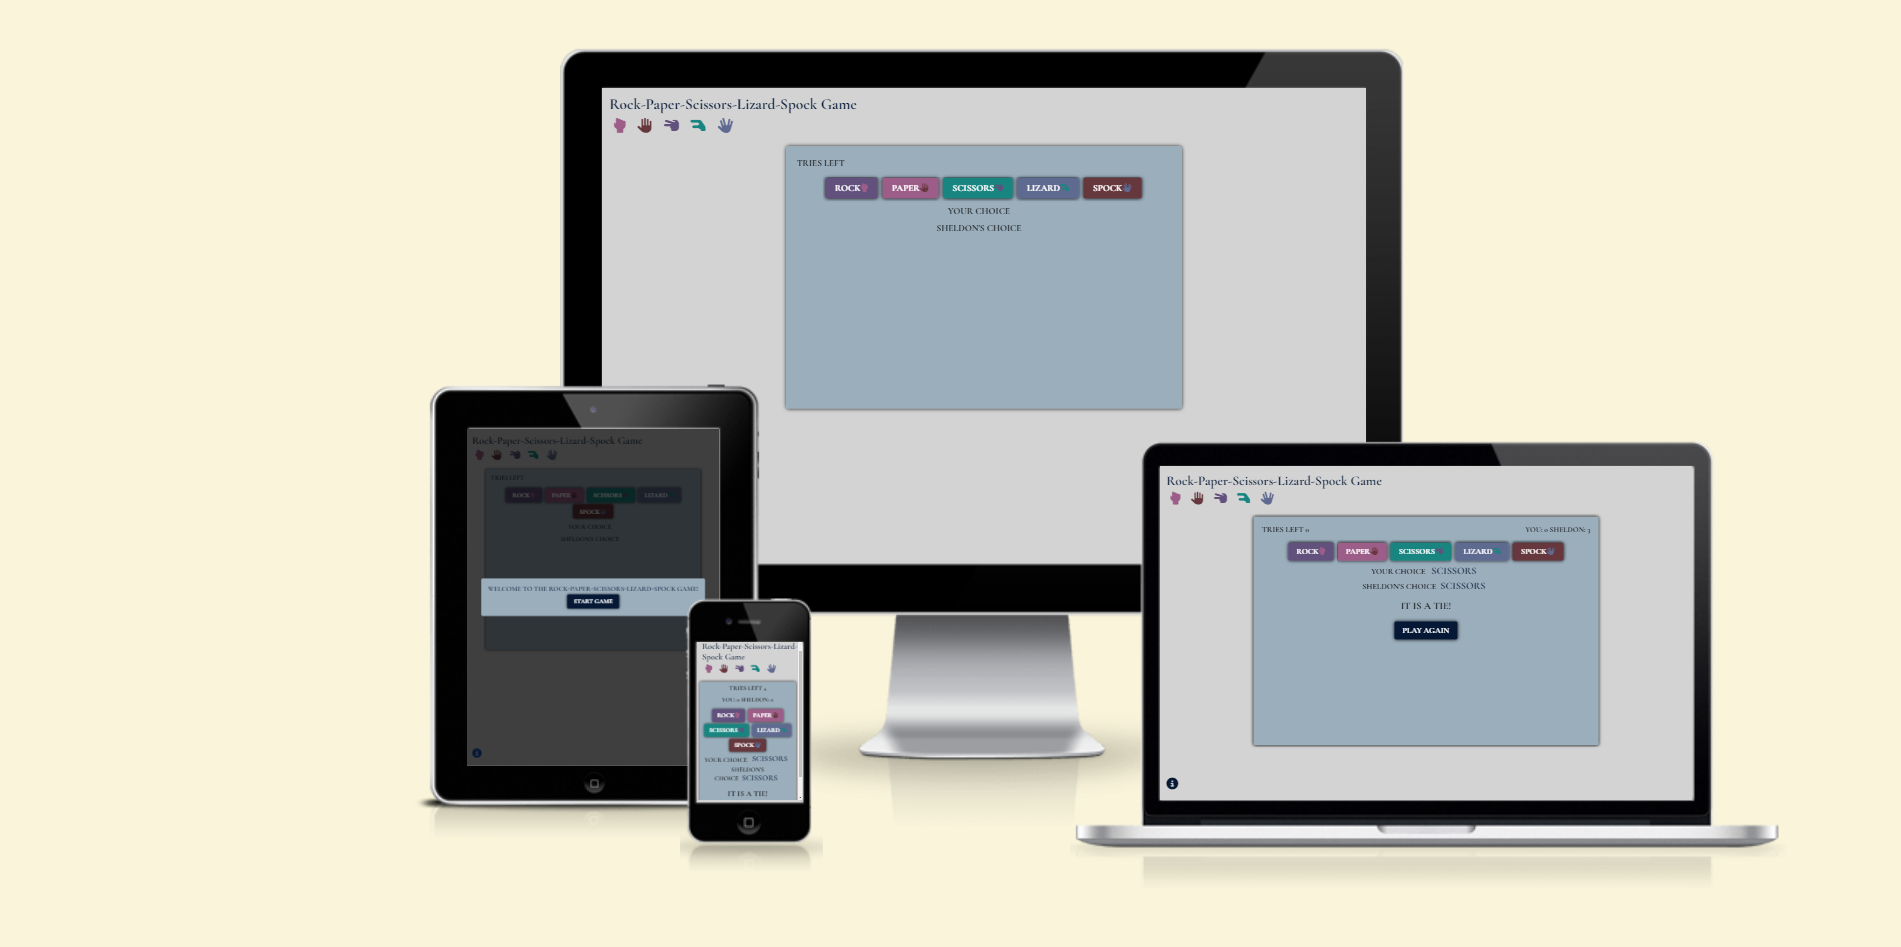
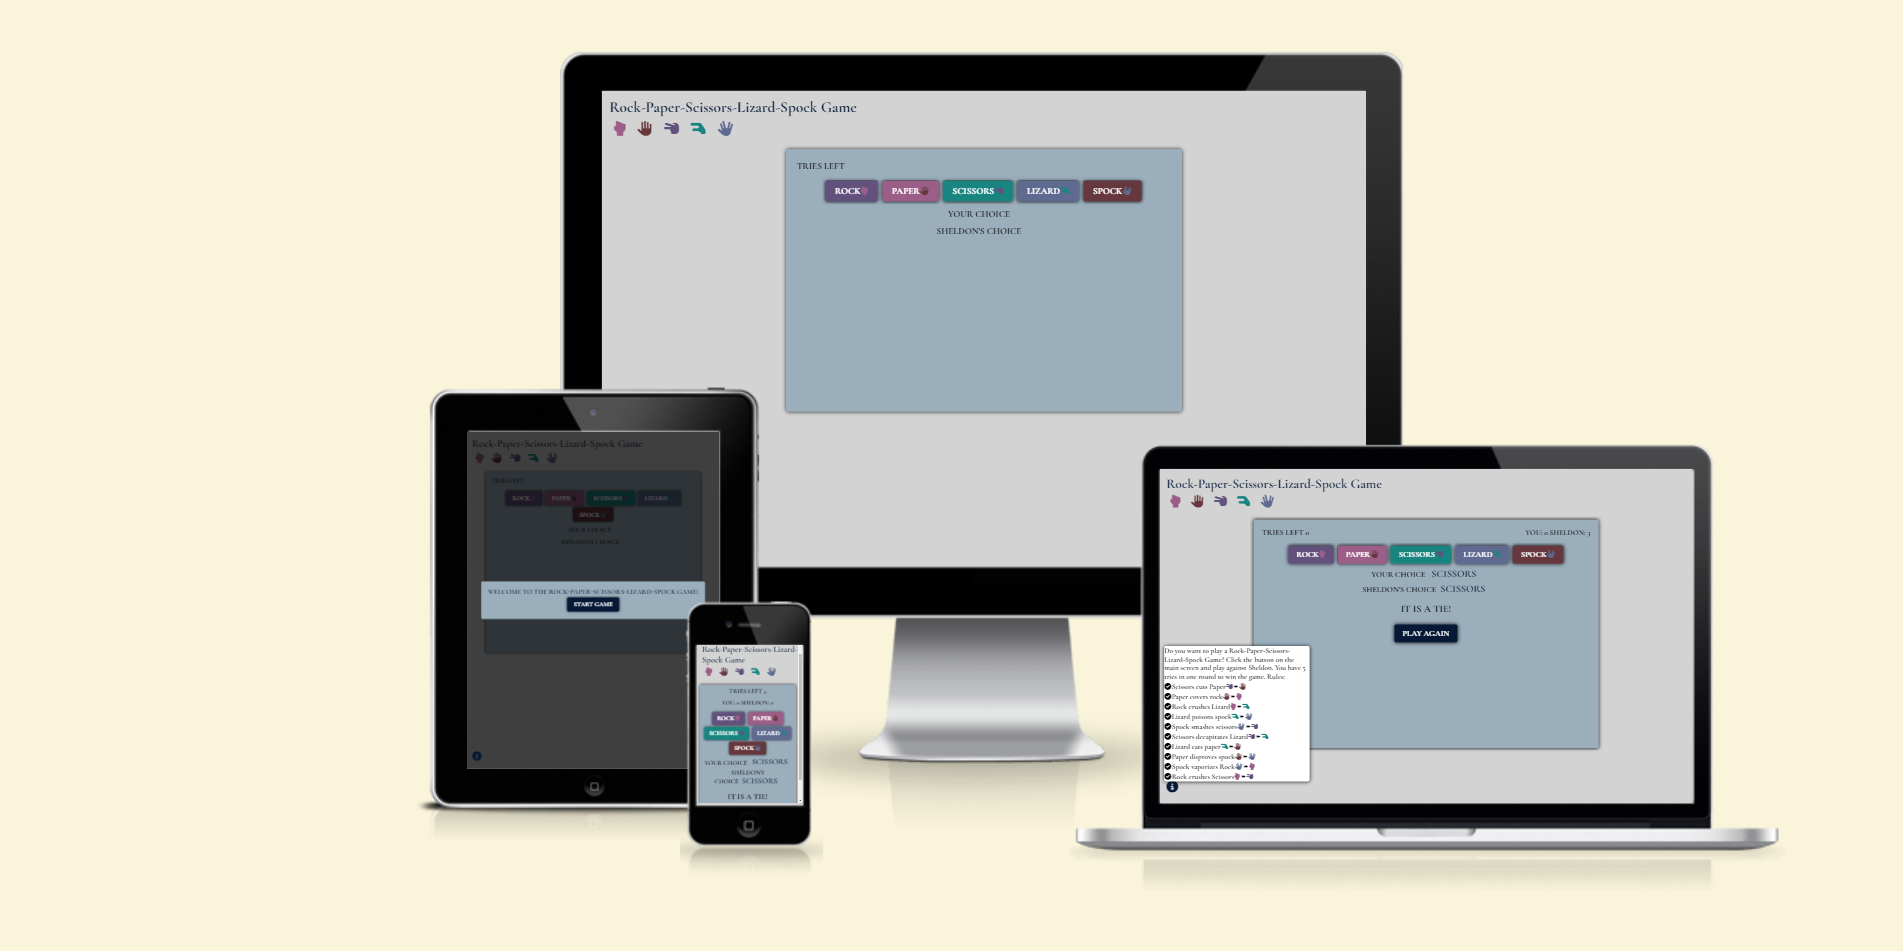
Describe functionality testing

diff --git a/README.md b/README.md
@@ -116,3 +116,23 @@ ___
 - navigate through the game with a keyboard.
 
 ___
+
+## Testing
+
+I conducted the following testing:
+
+__Functionality Testing:__
+
+- Verified that all functionality works
+- Tested the buttons and if the information displays as expected
+
+Buttons allow the user to make a selection. The user's choice and the computer's choice are displayed on the screen after each selection correctly. The overal result of each selection is correctly displayed. The number of tries subtract after each selection. The score increases and decreases based on it is a win or lose. If it's a tie, the score remains unchanged. The computer's choice is generated randomly.
+
+An alert message appears after the user has made five selections, indicating the final result of the game. The notification declares whether the user or the computer has won based on the overall score and if the result is a tie.
+
+A "Play" button appears when the number of tries reaches zero, indicating that the game has ended. The user can click the "Play" button to start a new game with five fresh tries.
+
+An information box appears when the user hovers or clicks on an icon, providing details about the game rules and how to play.
+
+
+
